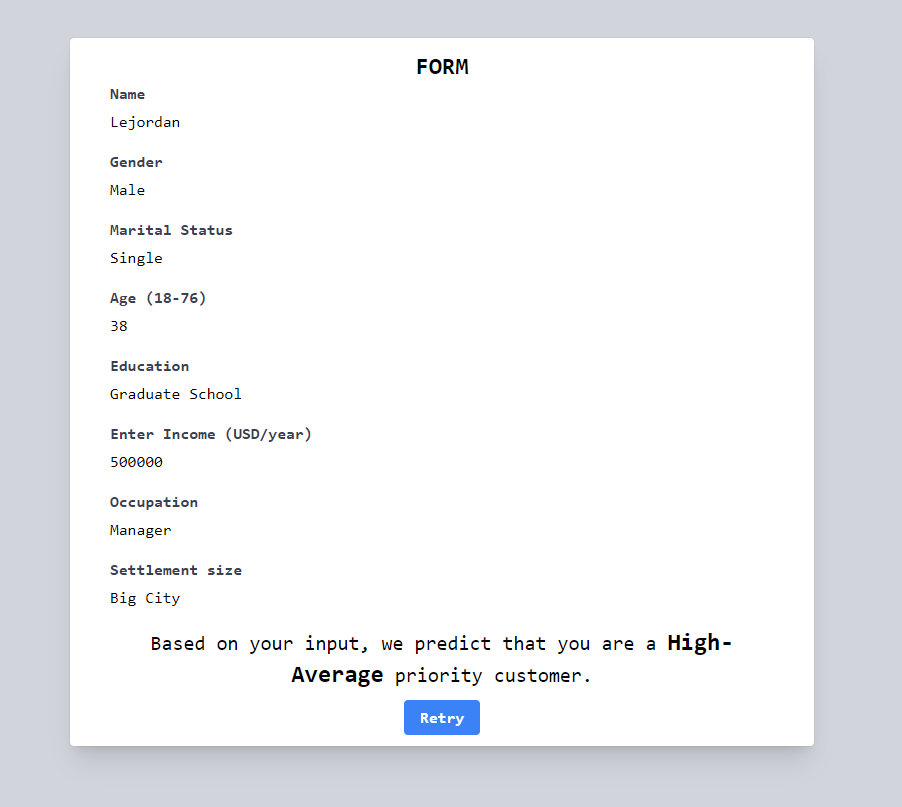
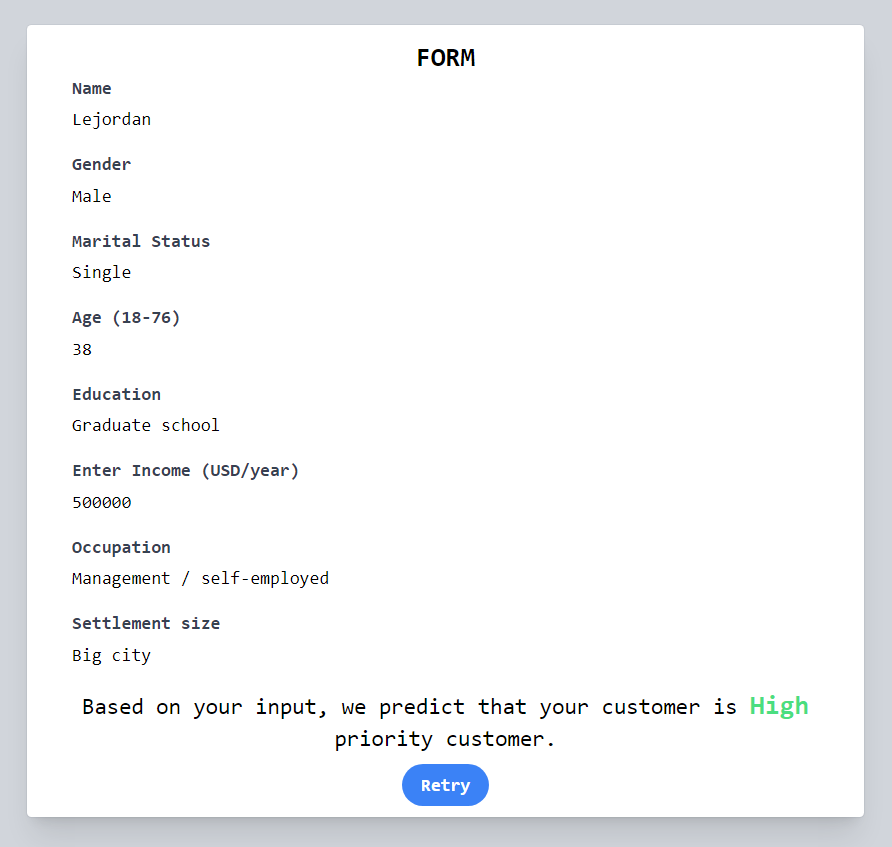
minor edit and fixes

Changed region(s): [[0.0303, 0.031, 0.9686, 0.9913]]

diff --git a/templates/form.html b/templates/form.html
@@ -29,8 +29,26 @@
         <div
           class="md:w-1/2 bg-white rounded shadow-xl ring-1 ring-gray-900/5 px-10"
         >
-          <a href="/"><button class="font-bold underline mt-4">Back</button></a>
+        
+          <a href="/"><button class="transition ease-in-out duration-300 font-bold mt-4  hover:text-blue-700">        
+            <svg xmlns="http://www.w3.org/2000/svg"
+              fill="none" 
+              viewBox="-3 2 24 24" 
+              stroke-width="2" 
+              stroke="currentColor" 
+              class="w-5 h-5 inline"
+            >
+              <path 
+                stroke-linecap="round" 
+                stroke-linejoin="round" 
+                d="M19.5 12h-15m0 0l6.75 6.75M4.5 12l6.75-6.75" 
+              />
+            </svg>
+            
+            <p class="inline text-lg">Back</p></button></a>
+
           <div class="text-center mt-3 text-2xl font-bold">INPUT FORM</div>
+
           <form class="block mt-3" action="/result" method="POST">
             <div class="mb-4">
               <label class="block text-gray-700 font-bold mb-1" for="name">
@@ -52,7 +70,7 @@
               <input
                 required
                 type="radio"
-                id="gender"
+                id="genderM"
                 name="gender"
                 value="0"
               />
@@ -60,7 +78,7 @@
               <input
                 required
                 type="radio"
-                id="gender"
+                id="genderF"
                 name="gender"
                 value="1"
               />
@@ -68,13 +86,13 @@
             </div>
 
             <div class="mb-4">
-              <label class="block text-gray-700 font-bold mb-1" for="marital">
+              <label class="block text-gray-700 font-bold mb-1" for="Marital">
                 Marital Status
               </label>
               <input
                 required
                 type="radio"
-                id="Marital"
+                id="Marital0"
                 name="marital"
                 value="0"
               />
@@ -82,11 +100,11 @@
               <input
                 required
                 type="radio"
-                id="Marital"
+                id="Marital1"
                 name="marital"
                 value="1"
               />
-              <label for="Marital"
+              <label for="Marital1"
                 >non-single (divorced / separated / married / widowed)</label
               >
             </div>
@@ -192,7 +210,7 @@
               <input
                 type="submit"
                 value="submit"
-                class="hover:bg-transparent bg-blue-500 hover:text-blue-700 font-semibold text-white py-2 px-4 border hover:border-blue-500 border-transparent rounded-full"
+                class="transition ease-in-out duration-300 hover:bg-transparent bg-blue-500 hover:text-blue-700 font-semibold text-white py-2 px-4 border hover:border-blue-500 border-transparent rounded-full"
               />
             </div>
           </form>

diff --git a/templates/sections/customer_priority.html b/templates/sections/customer_priority.html
@@ -1,13 +1,13 @@
-<section class="customer-priority my-10 px-10">
+<section class="customer-priority my-10 px-10 text-center">
   <h2 class="text-4xl font-semibold">Know Your Customer</h2>
-  <p class="text-gray-500 text-xl mt-6">
+  <p class="text-gray-500 text-xl mt-6 dark:text-red justify-center">
     Know your customer's needs and priorities based on the consumer results with
     <i>Low</i>, <i>Medium</i>, or
     <i>High</i> spending power.
   </p>
-  <div class="mt-10 grid grid-cols-12 gap-y-10 gap-x-10">
+  <div class="mt-10 grid grid-cols-12 gap-y-10 md:gap-x-10 flex justify-center">
     <!-- COLUMN 1 -->
-    <div class="col-span-12 lg:col-span-3 bg-slate-100 rounded-lg">
+    <div class="col-span-12 lg:col-span-4 bg-slate-100 rounded-lg">
       <div class="bg-green-300 w-full h-2 rounded-t-lg"></div>
       <div class="p-6">
         <h3 class="text-lg font-bold mb-2">1. Highest</h3>
@@ -19,7 +19,7 @@
     </div>
 
     <!-- COLUMN 2 -->
-    <div class="col-span-12 lg:col-span-3 bg-slate-100 rounded-lg">
+    <div class="col-span-12 lg:col-span-4 bg-slate-100 rounded-lg">
       <div class="bg-yellow-300 w-full h-2 rounded-t-lg"></div>
       <div class="p-6">
         <h3 class="text-lg font-bold mb-2">2. Medium</h3>
@@ -31,7 +31,7 @@
     </div>
 
     <!-- COLUMN 3 -->
-    <div class="col-span-12 lg:col-span-3 bg-slate-100 rounded-lg">
+    <div class="col-span-12 lg:col-span-4 bg-slate-100 rounded-lg">
       <div class="bg-red-300 w-full h-2 rounded-t-lg"></div>
       <div class="p-6">
         <h3 class="text-lg font-bold mb-2">3. Lowest</h3>

diff --git a/templates/output.html b/templates/output.html
@@ -88,13 +88,19 @@
 
           <div class="mb-4 text-center text-xl">
             Based on your input, we predict that your customer is
-            <strong class="text-2xl">{{ result }}</strong> priority customer.
+            {% if "High" in result %}
+            <strong class="text-2xl text-green-400">{{ result }}</strong> priority customer.
+            {% elif "Low" in result %}
+            <strong class="text-2xl text-red-400">{{ result }}</strong> priority customer.
+            {% else %}
+            <strong class="text-2xl text-yellow-400">{{ result }}</strong> priority customer.
+            {% endif %}
           </div>
 
           <div class="mb-4 text-center">
             <a
               href="/form"
-              class="bg-blue-500 hover:bg-blue-700 text-white font-bold py-2 px-4 rounded"
+              class="transition ease-in-out duration-300 hover:bg-transparent bg-blue-500 hover:text-blue-700 font-semibold text-white py-2 px-4 border hover:border-blue-500 border-transparent rounded-full"
               >Retry</a
             >
           </div>

diff --git a/templates/sections/tutorial.html b/templates/sections/tutorial.html
@@ -17,7 +17,7 @@
       2. Fill out the form with your information of your customers
     </h3>
     <i class="mt-2 mb-6">
-      Data that you are submitting will not be used for any other purpose other
+      Data that you are submitting will not be used for any other purposes
     </i>
     <img
       src="../../static/images/form_input.png"
